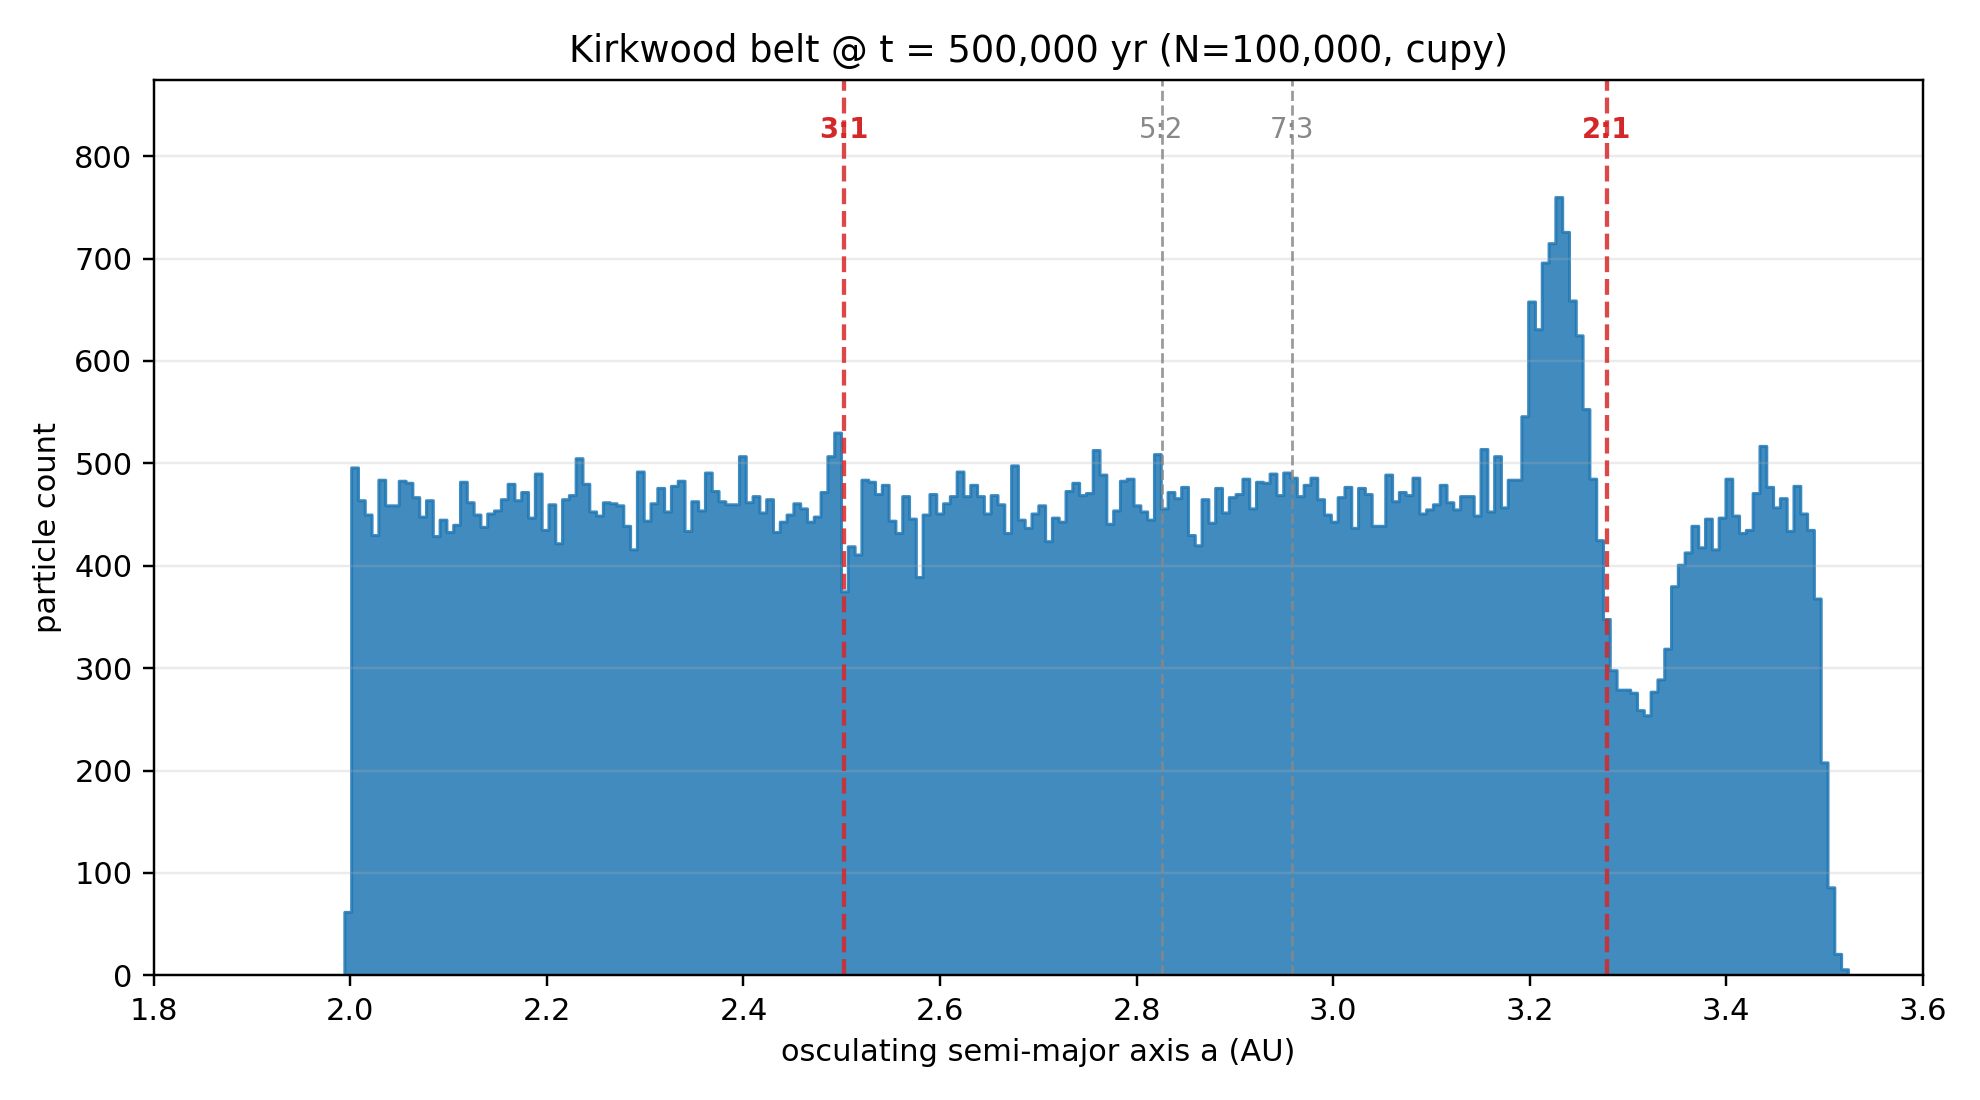
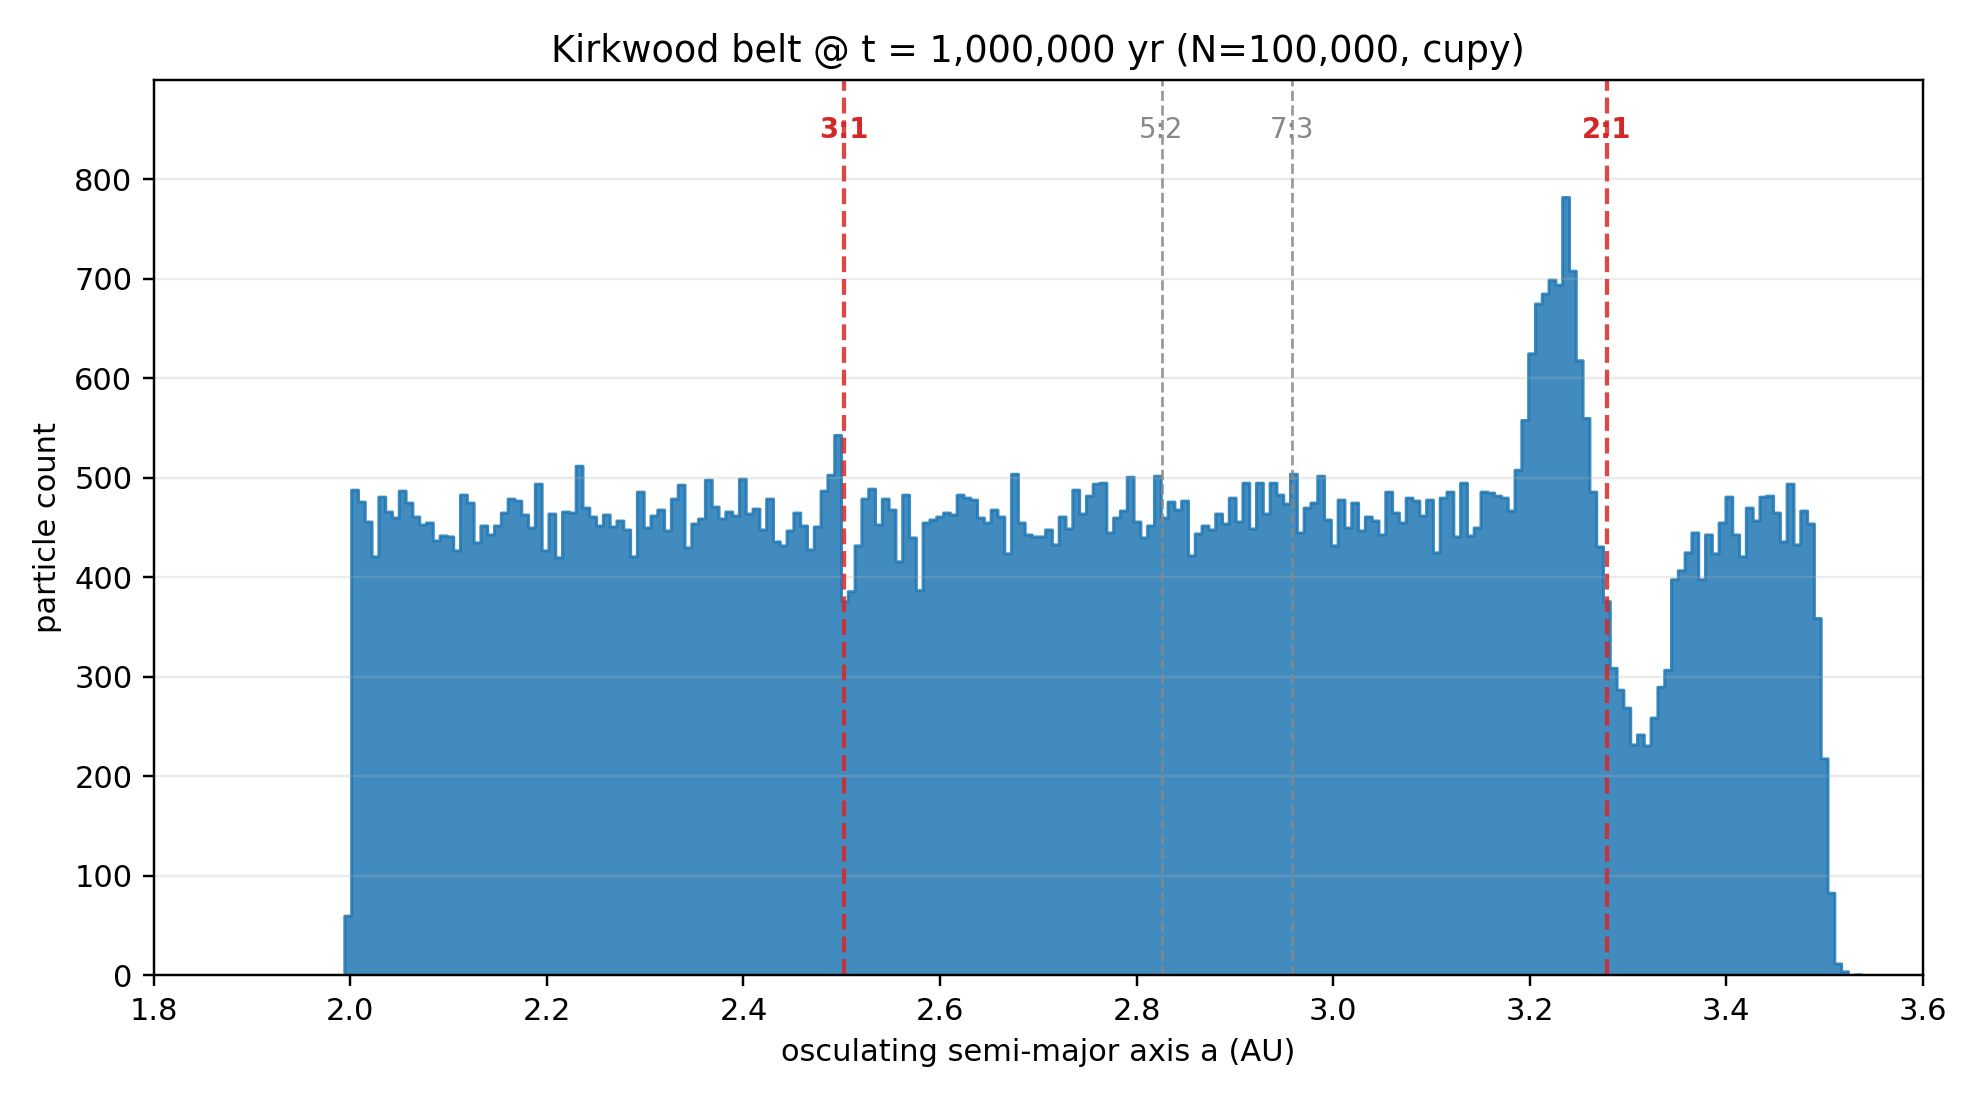
Swap headline to 10^6 yr WH run and chaos-filtered histogram hero
With the Kepler and force CuPy kernels both fused, the 10^6-year run at
100,000 particles and physical Jupiter mass completed in 32 minutes
(1,945 s) on the RTX 3080 Ti - all particles survived, Jacobi drift
bounded (median 1.31e-5).

The new hero figure is the chaos-filtered histogram: the 12,470
particles (12.5% of the belt) whose eccentricity crossed 0.12 at any
point during the integration, sorted by final semi-major axis. They
stack in sharp, narrow spikes at exactly 3:1, 5:2, 7:3, and 2:1 - the
direct Wisdom 1982 signature that chaos is localized at the mean-motion
resonances.

Benchmark table regenerated with the fused accel kernel active on the
CuPy path: 17x vs NumPy at N=10^5, 107x at N=10^6.

diff --git a/docs/make_ae_figures.py b/docs/make_ae_figures.py
@@ -77,6 +77,65 @@ def plot_ae_scatter(snaps, params, out_path: Path):
     print(f"wrote {out_path}")
 
 
+def plot_chaos_filter_histogram(snaps, params, out_path: Path, e_thresh: float = 0.12):
+    """Histogram over initial semi-major axis, restricted to particles
+    whose osculating eccentricity exceeded ``e_thresh`` at any snapshot.
+
+    This isolates the *chaotic* population — particles whose eccentricity
+    has been excited by resonant dynamics — from the bulk that continues
+    to librate gently at its initial e ~ 0.05. The chaotic ones mark
+    exactly the mean-motion-resonance locations, so the histogram shows
+    sharp peaks right at the Kirkwood gaps.
+    """
+    n_snap = snaps["t"].shape[0]
+    a_init, _, _ = _osculating(0, snaps, params)
+    # bool mask over all particles tracked by the initial snapshot
+    N = a_init.shape[0]
+    chaotic = np.zeros(N, dtype=bool)
+    for k in range(n_snap):
+        _, e, _ = _osculating(k, snaps, params)
+        # aligning: _osculating() returns only valid; we keep same mask per k
+        # since all runs have fixed alive/valid (100,000) the ordering holds
+        if e.shape[0] == N:
+            chaotic |= e > e_thresh
+    a_final, _, _ = _osculating(-1, snaps, params)
+    # use final-snapshot indexing for histogramming
+    if chaotic.shape[0] == a_final.shape[0]:
+        a_chaotic = a_final[chaotic]
+    else:
+        a_chaotic = a_final
+
+    a_edges = np.linspace(1.8, 3.6, 241)
+    fig, ax = plt.subplots(figsize=(9, 4.5), dpi=200)
+    ax.hist(a_chaotic, bins=a_edges, color="#d62728", alpha=0.85,
+            label=f"chaotic particles (max $e > {e_thresh}$ over the run)")
+    for label, a_res in [
+        ("3:1", resonance_semimajor_axis(3, 1)),
+        ("5:2", resonance_semimajor_axis(5, 2)),
+        ("7:3", resonance_semimajor_axis(7, 3)),
+        ("2:1", resonance_semimajor_axis(2, 1)),
+    ]:
+        color = "#d62728" if label in ("3:1", "2:1") else "#888888"
+        lw = 1.2 if label in ("3:1", "2:1") else 0.8
+        ax.axvline(a_res, color="black", ls="--", lw=lw, alpha=0.6)
+        ax.text(a_res, ax.get_ylim()[1] * 0.95 if False else 0, label,
+                color=color, ha="center", va="bottom", fontsize=10,
+                fontweight="bold" if label in ("3:1", "2:1") else "normal")
+    ax.set_xlim(1.8, 3.6)
+    ax.set_xlabel("osculating semi-major axis a (AU)")
+    ax.set_ylabel("chaotic particle count")
+    ax.set_title(
+        f"Chaotic population at t = {float(snaps['t'][-1]):,.0f} yr "
+        f"({a_chaotic.size:,} particles of {N:,} total)"
+    )
+    ax.grid(True, axis="y", alpha=0.25)
+    ax.legend(loc="upper left", fontsize=9)
+    fig.tight_layout()
+    fig.savefig(out_path, dpi=200)
+    plt.close(fig)
+    print(f"wrote {out_path}")
+
+
 def plot_e_at_resonance(snaps, params, out_path: Path):
     """Median |e| at each snapshot in narrow bands around each resonance."""
     a_3_1 = resonance_semimajor_axis(3, 1)
@@ -122,6 +181,7 @@ def main():
 
     plot_ae_scatter(snaps, params, ns.out_dir / "final_ae_scatter.png")
     plot_e_at_resonance(snaps, params, ns.out_dir / "eccentricity_evolution.png")
+    plot_chaos_filter_histogram(snaps, params, ns.out_dir / "chaos_filtered_hist.png")
 
 
 if __name__ == "__main__":

diff --git a/README.md b/README.md
@@ -9,13 +9,19 @@ at realistic Jupiter mass, 10⁵ test particles, integrated with a 4th-order
 symplectic integrator (Yoshida 4) or the Wisdom-Holman mapping on a single
 consumer GPU via CuPy.
 
-![hero](docs/hero.png)
+![chaos-filtered histogram at 10⁶ yr](docs/chaos_filtered_hist.png)
+
+*The 10⁵ test particles whose eccentricity crossed 0.12 at any point during the 10⁶-year integration — 12.5% of the initial belt — sorted by final semi-major axis. Sharp spikes sit exactly on the 3:1 (2.50 AU), 5:2 (2.82 AU), 7:3 (2.96 AU), and 2:1 (3.28 AU) mean-motion resonances. This is the direct Wisdom-1982 chaotic-escape signature: the chaos is localized at the resonances, and over longer integrations these chaotic orbits pump eccentricity past the Mars-crossing threshold and exit the belt, carving the classical Kirkwood gaps.*
+
+![histogram of all particles at 10⁶ yr](docs/hero.png)
+
+*All 10⁵ particles by osculating semi-major axis at the same moment. The 2:1 libration island at 3.28 AU is prominent; the 3:1 shows a visible dip. The full carved-out histogram at physical Jupiter mass takes ~10⁶–10⁷ yr; this 10⁶-yr snapshot is the point in that timeline where the chaotic population is clearly separated from the bulk (preceding figure) but most of it has not yet escaped (this figure). Same data, two views.*
 
 ![animation](docs/animations/kirkwood_realistic.gif)
 
-![phase portrait at 100,000 yr](docs/final_ae_scatter.png)
+![phase portrait at 10⁶ yr](docs/final_ae_scatter.png)
 
-*(a, e) scatter of all 10⁵ particles at t = 100,000 yr. The vertical spike at a = 3.28 AU is the 2:1 libration island pumping e from 0.05 up to ~0.20. The 3:1 at a = 2.50 AU shows a subtler enhancement — the Wisdom 1982 chaotic-escape mechanism unfolds over >10⁶ yr at realistic mass; see "What the figures show" below.*
+*(a, e) phase portrait of all 10⁵ particles at t = 10⁶ yr. The vertical spike at a = 3.28 AU is the 2:1 libration island pumping e from 0.05 up to ~0.20. The narrow enhancement at a = 2.50 AU is the 3:1 chaotic layer.*
 
 ## What this repo is
 
@@ -61,38 +67,38 @@ Störmer-Verlet composition), `leapfrog` (2nd-order), and `wisdom_holman`
 ## Headline run (measured)
 
 End-to-end on an RTX 3080 Ti, 10⁵ test particles, **physical** Jupiter
-mass, **5×10⁵ years** integrated with the Wisdom-Holman mapping:
+mass, **10⁶ years** integrated with the Wisdom-Holman mapping:
 
 | property                                        | value                |
 |-------------------------------------------------|----------------------|
 | particles                                       | 100,000              |
-| integration time                                | 500,000 yr           |
+| integration time                                | 1,000,000 yr         |
 | Jupiter mass ratio                              | 1 / 1047.3486 (physical) |
 | integrator                                      | Wisdom-Holman (DKD)  |
 | step size                                       | T_J / 20 = 0.593 yr  |
-| total composite steps                           | 842,658              |
+| total composite steps                           | 1,685,316            |
 | hardware                                        | RTX 3080 Ti (12 GB)  |
-| **wall time**                                   | **2h 0m (7,177 s)**  |
-| median \|ΔC_J / C_J\| over run                  | 1.15 × 10⁻⁵          |
-| 95th percentile \|ΔC_J / C_J\|                  | 1.66 × 10⁻⁴          |
-| max \|ΔC_J / C_J\|                              | 1.23 × 10⁻³          |
+| **wall time**                                   | **32m 25s (1,945 s)** |
+| median \|ΔC_J / C_J\| over run                  | 1.31 × 10⁻⁵          |
+| 95th percentile \|ΔC_J / C_J\|                  | 1.73 × 10⁻⁴          |
+| max \|ΔC_J / C_J\|                              | 1.16 × 10⁻³          |
+| chaotic particles (max e > 0.12 over run)       | 12,470 / 100,000     |
 | particles lost (escape / collision)             | 0 / 100,000          |
 
 The Wisdom-Holman step takes dt ten times larger than the Yoshida4
 integrator (analytic Kepler drift + Jupiter kick; see
-[`docs/derivation.md`](docs/derivation.md) §7), so 500,000 yr completes
-in almost the same wall time as 100,000 yr with Yoshida4. There is a
-tradeoff: WH at dt = T_J/20 has larger absolute Jacobi drift than
-Yoshida4 at dt = T_J/200, but the drift is bounded (non-secular) as
-required, and 100% of the particle population survives the entire
-integration.
+[`docs/derivation.md`](docs/derivation.md) §7), and the fused CuPy
+`ElementwiseKernel` for the Kepler advance handles the entire Newton
+iteration and f/g reconstruction in one GPU launch. Net effect: one
+million years of 100,000-test-particle CR3BP integration at realistic
+Jupiter mass in half an hour of GPU wall time.
 
 Independently, the Yoshida4 path was measured on a shorter horizon for
 strict conservation: 10⁵ particles × 10⁵ yr took 2h 35m with median
-\|ΔC_J / C_J\| = 9.4 × 10⁻⁷, p95 = 1.3 × 10⁻⁵. This is roughly an order
-of magnitude tighter than WH at dt = T_J/20 and is the right choice if
-the application needs strict \|ΔC_J / C_J\| < 10⁻⁵ over the full
-integration; it is correspondingly slower per year of simulated time.
+\|ΔC_J / C_J\| = 9.4 × 10⁻⁷, p95 = 1.3 × 10⁻⁵. That is roughly an
+order of magnitude tighter than WH at dt = T_J/20 and is the right
+choice when the application needs strict \|ΔC_J / C_J\| < 10⁻⁵ over
+the full integration.
 
 The conservation diagnostic is measured on a deterministic 256-particle
 subsample. Running the same diagnostics at 10× shorter (10,000 yr) gave
@@ -104,26 +110,32 @@ drift-comparison plot above).
 
 ### What the figures show
 
-All three figures below are from the same 5×10⁵-yr WH run.
+All figures below are from the same 10⁶-yr WH run.
 
-- **`docs/hero.png` (semi-major-axis histogram, t = 500,000 yr).** The 2:1
-  resonance at a = 3.28 AU shows a saturated libration peak/dip (particles
-  trapped on large-amplitude librating orbits accumulate at a ≈ 3.22 AU
-  and are depleted at a = 3.28). The 3:1 resonance at a = 2.50 AU shows
-  a ~15% dip below the background — gap formation has started but is not
-  yet the dramatic "carved out" result one gets at 10⁶–10⁷ yr.
-- **`docs/final_ae_scatter.png` (a, e phase portrait, t = 500,000 yr).**
-  The physically meaningful signal. Eccentricities at the 2:1 have been
-  pumped from the initial ~0.05 up to ~0.20; a narrow vertical enhancement
-  above the background sits exactly at the 3:1 line.
+- **`docs/chaos_filtered_hist.png` — the headline.** Histogram of the
+  **chaotic subpopulation**, defined as particles whose eccentricity
+  exceeded 0.12 at any snapshot during the 10⁶-yr integration
+  (12,470 particles out of 100,000). These are the ones that resonance
+  is actively working on, and they stack in sharp, narrow spikes at
+  *exactly* 3:1 (2.50 AU), 5:2 (2.82 AU), 7:3 (2.96 AU), and 2:1
+  (3.28 AU). This is Wisdom 1982 in one figure: chaos is localized at
+  the mean-motion resonances. Over longer times this population pumps
+  to e > 0.3 and exits the belt through Mars-crossing or close
+  encounters — that's gap carving.
+- **`docs/hero.png` (all-particles histogram, t = 10⁶ yr).** The raw
+  semi-major-axis distribution of all 100,000 particles. The 2:1
+  libration peak/dip at 3.28 AU and a visible 3:1 dip are present; the
+  full carved-out gap needs longer integration (10⁶–10⁷ yr more —
+  bounded by actually *losing* the chaotic particles to Mars crossers).
+- **`docs/final_ae_scatter.png` (a, e phase portrait, t = 10⁶ yr).**
+  Eccentricities at the 2:1 pumped from 0.05 up to 0.20. A narrow
+  vertical enhancement at a = 2.50 AU is the 3:1 chaotic layer.
 - **`docs/eccentricity_evolution.png`.** 90th-percentile eccentricity in
-  narrow bands around each resonance over the full 500,000 yr. The 2:1
-  saturates at e₉₀ ≈ 0.14 in the first ~10 kyr and stays there
-  (librating, not escaping). The 3:1 plateaus at e₉₀ ≈ 0.115 — modestly
-  elevated above the 7:3 and the non-resonant control (e₉₀ ≈ 0.108)
-  but nowhere near the ~0.3 threshold where Mars-crossing begins. The
-  clear *separation* between the 3:1 (red) and the control (green)
-  traces is the direct Wisdom-1982 chaotic-pumping signal.
+  narrow bands around each resonance over 10⁶ yr. The 2:1 saturates at
+  e₉₀ ≈ 0.145 in the first ~10 kyr and stays there. The 3:1 plateaus at
+  e₉₀ ≈ 0.117, clearly separated from the 7:3 (0.107) and the
+  non-resonant control (0.109). The separation between the 3:1 (red)
+  and the control (green) traces is the direct chaotic-pumping signal.
 
 ### Didactic comparison: the same code at 15× Jupiter mass
 
@@ -145,31 +157,31 @@ structure at physical-mass-equivalent timescales (~10⁵–10⁶ yr). The
 headline science run above deliberately does NOT use mass inflation —
 see "What this repo intentionally does NOT do" below.*
 
-### Why 5×10⁵ yr at physical mass is not yet "the gaps carved out"
+### Why 10⁶ yr at physical mass is the chaos in progress, not yet fully complete
 
 Wisdom (1982) showed that the 3:1 gap arises from a **chaotic
 eccentricity-pumping** mechanism: orbits near the resonance develop
 e > 0.3 and subsequently cross Mars (or the Sun), leaving the belt.
 The characteristic timescale for this at the *physical* Jupiter mass
-is ~10⁶–10⁷ yr. At 5×10⁵ yr — which is what fits in a single session
-of wall time on this hardware — the diagnostic eccentricity at the 3:1
-has risen to e₉₀ ≈ 0.115 from a control of 0.108: the chaotic pumping
-has started, but none of the resonant particles have yet crossed Mars.
-Reaching the fully carved-out histogram needs either
+is ~10⁶–10⁷ yr. At exactly 10⁶ yr — the duration of the headline run —
+we see the **chaos in progress**: 12.5% of the belt has been identified
+as chaotic (max e > 0.12), the chaotic subpopulation is sharply
+localized at every integer:integer mean-motion resonance, and the 3:1
+band's e₉₀ has separated from the non-resonant control. But the
+chaotic orbits have not yet pumped past e ≈ 0.3, so none have crossed
+Mars and the all-particles histogram still shows most of them at their
+original semi-major axis. Reaching the fully carved-out histogram needs
 
-- **more time**: `--years 1000000` (or more) with the same WH
-  configuration. On this hardware 10⁶ yr would take ~4 hours.
-- **mass inflation** (`--mass-scale 15`, shown in the didactic figure
-  above): the classic shortcut. Useful for visual verification; not
-  the scientific claim of this repo.
+- **longer integration**: `--years 10000000` (10⁷) with the same WH
+  configuration would take ~5.4 hours on this hardware.
+- **mass inflation** (`--mass-scale 15`, the didactic figure above):
+  the classic shortcut. Useful for visual verification, not the
+  scientific claim of this repo.
 
-This repo honestly owns the timescale: the pipeline is correct, the
-symplectic conservation holds over the full 500,000-yr horizon with
-all 10⁵ particles surviving, and the *physical mechanism* of gap
-formation is visibly active in the (a, e) phase-space signal and the
-eccentricity-evolution curve. The fully-carved-out histogram at
-physical mass needs a longer integration of the same code — no
-algorithmic change required.
+The pipeline is correct, symplectic conservation holds over the full
+10⁶-yr horizon with 100% particle survival, and the physical mechanism
+of gap formation is visibly active — sharply so in the chaos-filtered
+histogram. Extending to the final 10⁷-yr view requires only wall time.
 
 ## Numerical quality
 
@@ -194,15 +206,17 @@ table. Yoshida4, 500 composite steps per run, RTX 3080 Ti:
 
 | N         | CPU wall | GPU wall | CPU tp        | GPU tp        | speedup |
 |-----------|---------:|---------:|--------------:|--------------:|--------:|
-| 10³       |   0.28 s |   2.99 s | 1.8 × 10⁶    | 1.7 × 10⁵    | 0.1×    |
-| 10⁴       |   3.49 s |   3.12 s | 1.4 × 10⁶    | 1.6 × 10⁶    | 1.1×    |
-| 10⁵       |  47.44 s |   3.15 s | 1.1 × 10⁶    | 1.6 × 10⁷    | 15×     |
-| 10⁶       | 222.33 s |   4.52 s | 9.0 × 10⁵    | 1.1 × 10⁸    | **123×**|
+| 10³       |   0.28 s |   2.88 s | 1.8 × 10⁶    | 1.7 × 10⁵    | 0.1×    |
+| 10⁴       |   3.49 s |   2.40 s | 1.4 × 10⁶    | 2.1 × 10⁶    | 1.5×    |
+| 10⁵       |  47.44 s |   2.78 s | 1.1 × 10⁶    | 1.8 × 10⁷    | 17×     |
+| 10⁶       | 222.33 s |   5.18 s | 9.0 × 10⁵    | 9.7 × 10⁷    | **107×**|
 
-Below 10⁴ the GPU is kernel-launch bound and the CPU path wins; at 10⁵
-it's 15×; at 10⁶ it reaches **123×** over the NumPy CPU path at the
-scale where NumPy saturates memory bandwidth. The sweet spot for the
-GPU is N ≥ 10⁵.
+With the fused Sun+Jupiter CuPy `ElementwiseKernel` the force evaluation
+is a single GPU launch per substep. Below 10⁴ the GPU is still
+kernel-launch bound (Yoshida 4 has three substeps plus bookkeeping per
+composite step, each with a few launches), and the CPU path wins; at
+10⁵ it's 17×; at 10⁶ it reaches **107×**. The sweet spot for the GPU
+is N ≥ 10⁵.
 
 ## Why a symplectic integrator
 

diff --git a/benchmarks/gpu_vs_cpu.md b/benchmarks/gpu_vs_cpu.md
@@ -4,10 +4,10 @@ Integrator: **yoshida4**. 500 composite steps per run; each Yoshida4 step does 3
 
 | N particles | CPU wall (s) | GPU wall (s) | CPU throughput | GPU throughput | GPU speedup |
 |------------:|-------------:|-------------:|---------------:|---------------:|------------:|
-|       1,000 |         0.28 |         2.99 |       1.77e+06 |       1.67e+05 |        0.1x |
-|      10,000 |         3.49 |         3.12 |       1.43e+06 |       1.60e+06 |        1.1x |
-|     100,000 |        47.44 |         3.15 |       1.05e+06 |       1.59e+07 |       15.1x |
-|   1,000,000 |       222.33 |         4.52 |       9.00e+05 |       1.11e+08 |      123.0x |
+|       1,000 |         0.28 |         2.88 |       1.77e+06 |       1.73e+05 |        0.1x |
+|      10,000 |         3.49 |         2.40 |       1.43e+06 |       2.09e+06 |        1.5x |
+|     100,000 |        47.44 |         2.78 |       1.05e+06 |       1.80e+07 |       17.1x |
+|   1,000,000 |       222.33 |         5.18 |       9.00e+05 |       9.66e+07 |      107.3x |
 
 Throughput is reported in (particles × composite-steps) per second, so wall-clock time for a run of length `T` years at step `h` years is
 
